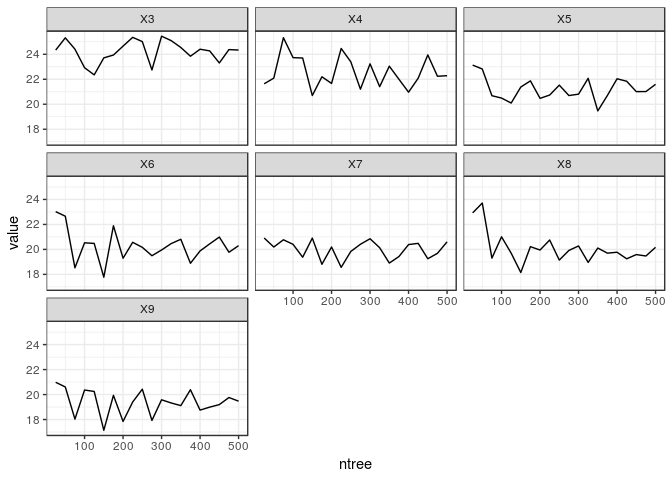
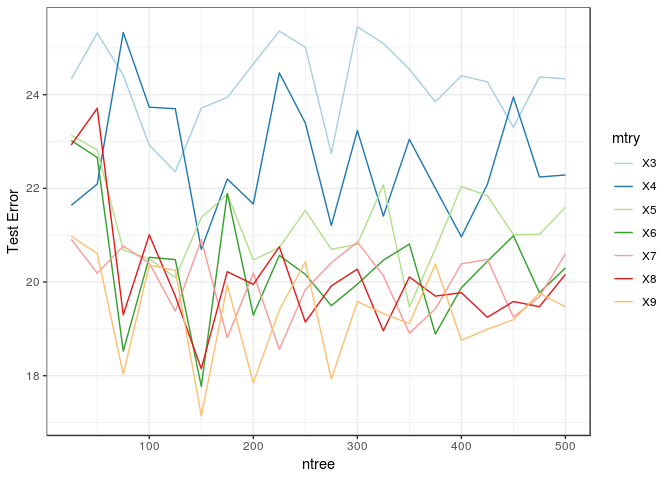
Updates

diff --git a/homework-4.md b/homework-4.md
@@ -56,135 +56,17 @@ rf_plot <- rf_plot %>%
 rf_long <- rf_plot %>%
   gather(mtry, value, X3:X9)
 
-p <- ggplot(rf_long, aes(x = ntree, y = value))
+
+p <- ggplot(rf_long, aes(x = ntree, y = value, col = mtry))
 p + geom_line() +
-  facet_wrap(~mtry)
+  labs(y = "Test Error") +
+  scale_color_brewer(palette="Paired")
 ```
 
 ![](homework-4_files/figure-markdown_github/unnamed-chunk-4-1.png)
 
-``` r
-set.seed(200)
-trainControl <- trainControl(method = "cv", number = 5)
-rf_cv <- data.frame(ntree = rep(NA, length(20)),
-                    mtry_best = rep(NA, length(ntree)))
-for(i in 1:20){
-  rf_boston_cv <- train(medv ~ ., 
-                      data = training,
-                      method = "rf",
-                      ntree = ntree$ntree[i],
-                      importance = T, 
-                      tuneGrid = mtry) 
-  
-  rf_cv[i, "ntree"] <- ntree$ntree[i]
-  rf_cv[i, "mtry_best"] <- rf_boston_cv$finalModel$mtry
-}
-
-rf_cv
-```
-
-    ##    ntree mtry_best
-    ## 1     25         6
-    ## 2     50         5
-    ## 3     75         5
-    ## 4    100         5
-    ## 5    125         5
-    ## 6    150         6
-    ## 7    175         5
-    ## 8    200         5
-    ## 9    225         6
-    ## 10   250         6
-    ## 11   275         5
-    ## 12   300         5
-    ## 13   325         6
-    ## 14   350         5
-    ## 15   375         6
-    ## 16   400         5
-    ## 17   425         5
-    ## 18   450         6
-    ## 19   475         5
-    ## 20   500         4
-
-By checking the classes of `mtry_best`, we can tell that there are three candidates of best mtry should be evaluated by calculating the MSE of the random forest with each of them.
-
-``` r
-best_rf_pairs <- tbl_df(rf_cv)
-best_rf_pairs
-```
-
-    ## # A tibble: 20 x 2
-    ##    ntree mtry_best
-    ##  * <dbl>     <dbl>
-    ##  1    25         6
-    ##  2    50         5
-    ##  3    75         5
-    ##  4   100         5
-    ##  5   125         5
-    ##  6   150         6
-    ##  7   175         5
-    ##  8   200         5
-    ##  9   225         6
-    ## 10   250         6
-    ## 11   275         5
-    ## 12   300         5
-    ## 13   325         6
-    ## 14   350         5
-    ## 15   375         6
-    ## 16   400         5
-    ## 17   425         5
-    ## 18   450         6
-    ## 19   475         5
-    ## 20   500         4
-
-``` r
-unique(best_rf_pairs$mtry_best) 
-```
-
-    ## [1] 6 5 4
-
-``` r
-mtry_num = 3
-ntree_num = 20
-
-output_2 <- matrix(ncol = mtry_num, nrow = ntree_num)
-rownames(output_2) <- seq(25, 500, 25)
-colnames(output_2) <- c(4,5,6)
-```
-
-``` r
-ntree <- data.frame(ntree = (seq(25, 500, 25)))
-best_mtry <- data.frame(best_mtry = c(4,5,6))
-
-for (i in 1:mtry_num) {
-  for(n in 1:ntree_num){
-      best_rf_boston <- randomForest(medv ~ .,
-                            data = training,  # create loop to change ntree value
-                            mtry = best_mtry$best_mtry[i],
-                            ntree = ntree$ntree[n])
-      
-      test_preds_2 <- predict(best_rf_boston, newdata = testing)
-      best_boston_test_df <- testing %>%
-        mutate(y_hat_rf = test_preds_2,
-               sq_err_rf = (y_hat_rf - medv)^2)
-      output_2[n,i] <- mean(best_boston_test_df$sq_err_rf)
-  }
-}
-
-best_rf_plot <- data.frame(output_2)
-best_rf_plot <- best_rf_plot %>%
-  mutate(ntree = seq(25,500,25))
-```
-
-``` r
-best_rf_long <- best_rf_plot %>%
-  gather(best_mtry, value, X4:X6)
-
-p <- ggplot(best_rf_long, aes(x = ntree, y = value))
-p + geom_line() +
-  facet_wrap(~best_mtry)
-```
-
-![](homework-4_files/figure-markdown_github/unnamed-chunk-9-1.png) According to the plots shown above, we can tell that the random forest model with `mtry = 5` and `ntree = 75` generates the smallest MSE with the testing dataset. \#\# Problem 2
+Problem 2
+---------
 
 Problem 8 from Chapter 8 in the text. Set your seed with 9823 and split into train/test using 50% of your data in each split. In addition to parts (a) - (e), do the following:
 
@@ -211,7 +93,7 @@ reg_tree <- rpart(Sales ~ ., training)
 plot(as.party(reg_tree))
 ```
 
-![](homework-4_files/figure-markdown_github/unnamed-chunk-12-1.png)
+![](homework-4_files/figure-markdown_github/unnamed-chunk-7-1.png)
 
 ``` r
 reg_tree
@@ -274,7 +156,7 @@ cv_reg_tree <- train(Sales ~ .,
 plot(cv_reg_tree)
 ```
 
-![](homework-4_files/figure-markdown_github/unnamed-chunk-14-1.png)
+![](homework-4_files/figure-markdown_github/unnamed-chunk-9-1.png)
 
 ``` r
 cv_reg_tree
@@ -302,7 +184,7 @@ cv_reg_tree
 plot(as.party(cv_reg_tree$finalModel))
 ```
 
-![](homework-4_files/figure-markdown_github/unnamed-chunk-14-2.png) Estimated Test MSE:
+![](homework-4_files/figure-markdown_github/unnamed-chunk-9-2.png) Estimated Test MSE:
 
 ``` r
 test_preds <- predict(cv_reg_tree, newdata = testing)
@@ -347,7 +229,7 @@ bag_car
 varImpPlot(bag_car)  
 ```
 
-![](homework-4_files/figure-markdown_github/unnamed-chunk-16-1.png) By reading the output of `varImpPlot`, we can tell that the most important predictors are `ShelveLoc` and `Price`.
+![](homework-4_files/figure-markdown_github/unnamed-chunk-11-1.png) By reading the output of `varImpPlot`, we can tell that the most important predictors are `ShelveLoc` and `Price`.
 
 Estimated Test MSE:
 
@@ -405,7 +287,7 @@ rf_car_cv
 plot(rf_car_cv)
 ```
 
-![](homework-4_files/figure-markdown_github/unnamed-chunk-18-1.png) Estimated Test MSE:
+![](homework-4_files/figure-markdown_github/unnamed-chunk-13-1.png) Estimated Test MSE:
 
 ``` r
 test_preds <- predict(rf_car_cv, newdata = testing)
@@ -423,7 +305,7 @@ By comparing the RMSE of bagging and random forest applied on testing dataset, w
 varImpPlot(rf_car_cv$finalModel)
 ```
 
-![](homework-4_files/figure-markdown_github/unnamed-chunk-20-1.png) According to the variable importance plot of the optimal random forest shown above, we can tell that `ShelveLocGood` and `Price` are the most importance predictors.
+![](homework-4_files/figure-markdown_github/unnamed-chunk-15-1.png) According to the variable importance plot of the optimal random forest shown above, we can tell that `ShelveLocGood` and `Price` are the most importance predictors.
 
 ``` r
 rf_car_cv$finalModel
@@ -569,7 +451,7 @@ gbm_car
 plot(gbm_car)
 ```
 
-![](homework-4_files/figure-markdown_github/unnamed-chunk-22-1.png) Estimated Test MSE:
+![](homework-4_files/figure-markdown_github/unnamed-chunk-17-1.png) Estimated Test MSE:
 
 ``` r
 test_preds <- predict(gbm_car, newdata = testing)
